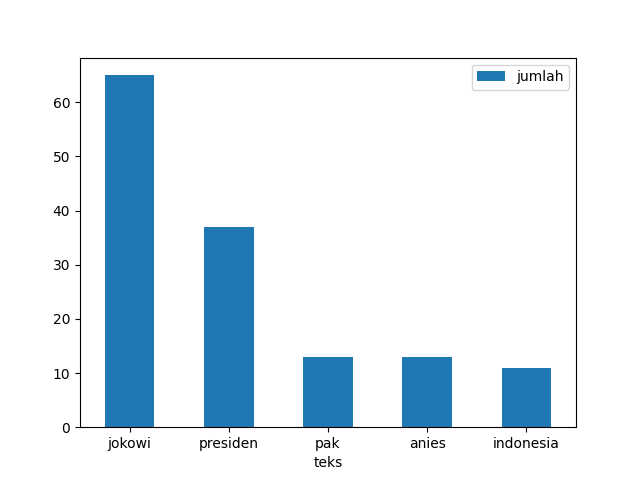
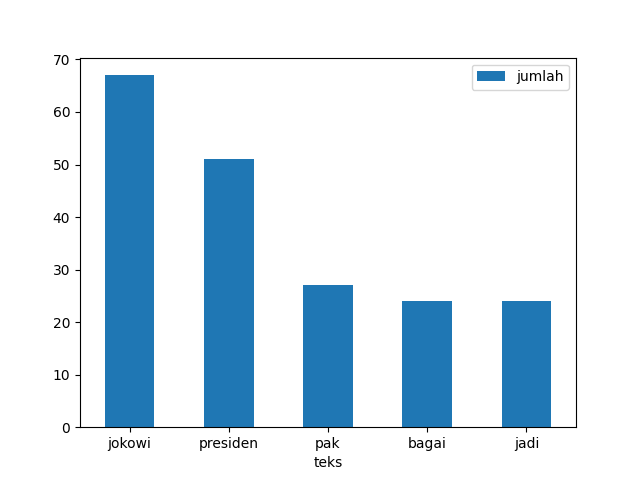
keeping api, removing netral, fixing testing

diff --git a/analisa2.php b/analisa2.php
@@ -229,7 +229,7 @@
                                         <div class="card shadow mb-4">
                                             <!-- Card Header - Dropdown -->
                                             <div class="card-header py-3">
-                                                <h6 class="m-0 font-weight-bold text-primary">Perbandingan positif negatif netral</h6>
+                                                <h6 class="m-0 font-weight-bold text-primary">Perbandingan positif negatif</h6>
                                             </div>
                                             <!-- Card Body -->
                                             <div class="card-body">
@@ -238,7 +238,6 @@
                                                 </div>
                                                 <p>Positif = <?php echo $row_positif?></p>
                                                 <p>Negatif = <?php echo $row_negatif?></p>
-                                                <p>Netral = <?php echo $row_netral?></p>
                                             </div>
                                         </div>  
                                     </div>
@@ -422,9 +421,9 @@ var myPieChart = new Chart(ctx, {
   data: {
     labels: ["Positif", "Negatif", "Netral"],
     datasets: [{
-      data: [<?php echo $row_positif?>, <?php echo $row_negatif?>, <?php echo $row_netral?>],
-      backgroundColor: ['#28C837', '#E21111' ,'#ACACAC'],
-      hoverBackgroundColor: ['#49FF00', '#FF0000', '#6E6E6E'],
+      data: [<?php echo $row_positif?>, <?php echo $row_negatif?>],
+      backgroundColor: ['#28C837', '#E21111'],
+      hoverBackgroundColor: ['#49FF00', '#FF0000'],
       hoverBorderColor: "rgba(234, 236, 244, 1)",
     }],
   },
@@ -451,13 +450,13 @@ var ctx = document.getElementById("myBarChart");
 var myBarChart = new Chart(ctx, {
   type: 'bar',
   data: {
-    labels: ["Positif", "Negatif", "Netral"],
+    labels: ["Positif", "Negatif"],
     datasets: [{
       label: "Total",
-      backgroundColor: ["#38FF50","#FF3838", "#BDBDBD"],
-      hoverBackgroundColor: ["#00FF1F", "#FC0000", "#7D7D7D"],
+      backgroundColor: ["#38FF50","#FF3838"],
+      hoverBackgroundColor: ["#00FF1F", "#FC0000"],
       borderColor: "#4e73df",
-      data: [<?php echo $row_positif?>, <?php echo $row_negatif?>, <?php echo   $row_netral?>],
+      data: [<?php echo $row_positif?>, <?php echo $row_negatif?>],
     }],
   },
   options: {

diff --git a/twitter3.py b/twitter3.py
@@ -4,11 +4,8 @@ import mysql.connector
 from datetime import datetime, timedelta, timezone
 from Sastrawi.Stemmer.StemmerFactory import StemmerFactory
 from Sastrawi.StopWordRemover.StopWordRemoverFactory import StopWordRemoverFactory
+from api_key import consumer_key, consumer_secret, access_token, access_secret
 
-consumer_key = 'prtMkWR1urcFryQlZiHirvZsz'
-consumer_secret = 'SsZQUhxfpww5dvmezkK8tYaVJk4k8uafXF5kXg03zhlCqd8cJq'
-access_token = '1203340032330715136-ykATveLYSYYGzGAah3kLCxygdz4y4T'
-access_secret = 'c4Sc68bEAbZR7q2JGlcaJJRA6HDgFSn4l3Rym49grl3b8'
 tweetsPerQry = 10
 maxTweets = 200
 hashtag = sys.argv[1]
@@ -40,6 +37,10 @@ newTweets = [x for x in newTweets]
 #         break
 total = 0
 val = []
+
+mycursor.execute("TRUNCATE TABLE tweet3")
+mydb.commit()
+
 for tweet in newTweets:
     if 'retweeted_status' in dir(tweet):
         text = tweet.retweeted_status.full_text

diff --git a/twitter2.py b/twitter2.py
@@ -4,13 +4,10 @@ import mysql.connector
 from datetime import datetime, timedelta, timezone
 from Sastrawi.Stemmer.StemmerFactory import StemmerFactory
 from Sastrawi.StopWordRemover.StopWordRemoverFactory import StopWordRemoverFactory
+from api_key import consumer_key, consumer_secret, access_token, access_secret
 
-consumer_key = 'prtMkWR1urcFryQlZiHirvZsz'
-consumer_secret = 'SsZQUhxfpww5dvmezkK8tYaVJk4k8uafXF5kXg03zhlCqd8cJq'
-access_token = '1203340032330715136-ykATveLYSYYGzGAah3kLCxygdz4y4T'
-access_secret = 'c4Sc68bEAbZR7q2JGlcaJJRA6HDgFSn4l3Rym49grl3b8'
 tweetsPerQry = 10
-maxTweets = 200
+maxTweets = 1
 for arg in sys.argv:
     print(arg)
 hashtag = sys.argv[1]

diff --git a/api_key.py b/api_key.py
@@ -1,0 +1,4 @@
+consumer_key = 'prtMkWR1urcFryQlZiHirvZsz'
+consumer_secret = 'SsZQUhxfpww5dvmezkK8tYaVJk4k8uafXF5kXg03zhlCqd8cJq'
+access_token = '1203340032330715136-ykATveLYSYYGzGAah3kLCxygdz4y4T'
+access_secret = 'c4Sc68bEAbZR7q2JGlcaJJRA6HDgFSn4l3Rym49grl3b8'
